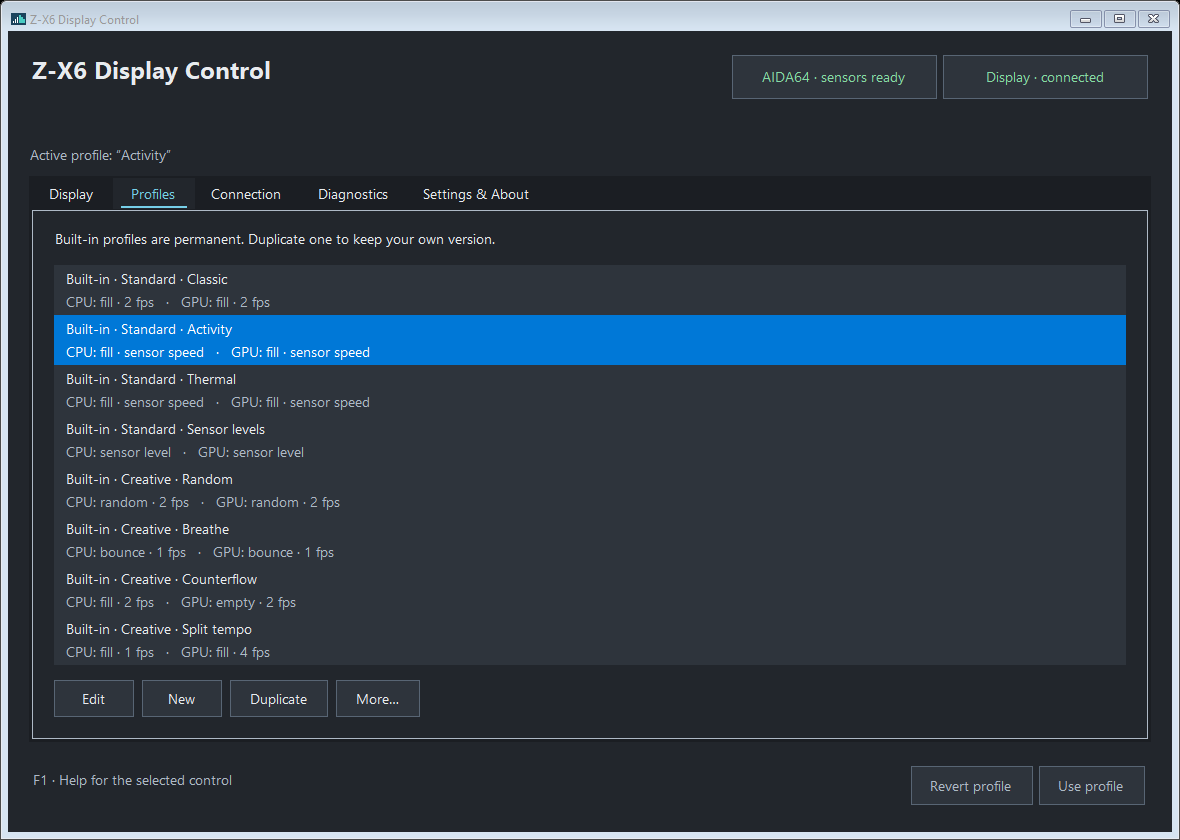
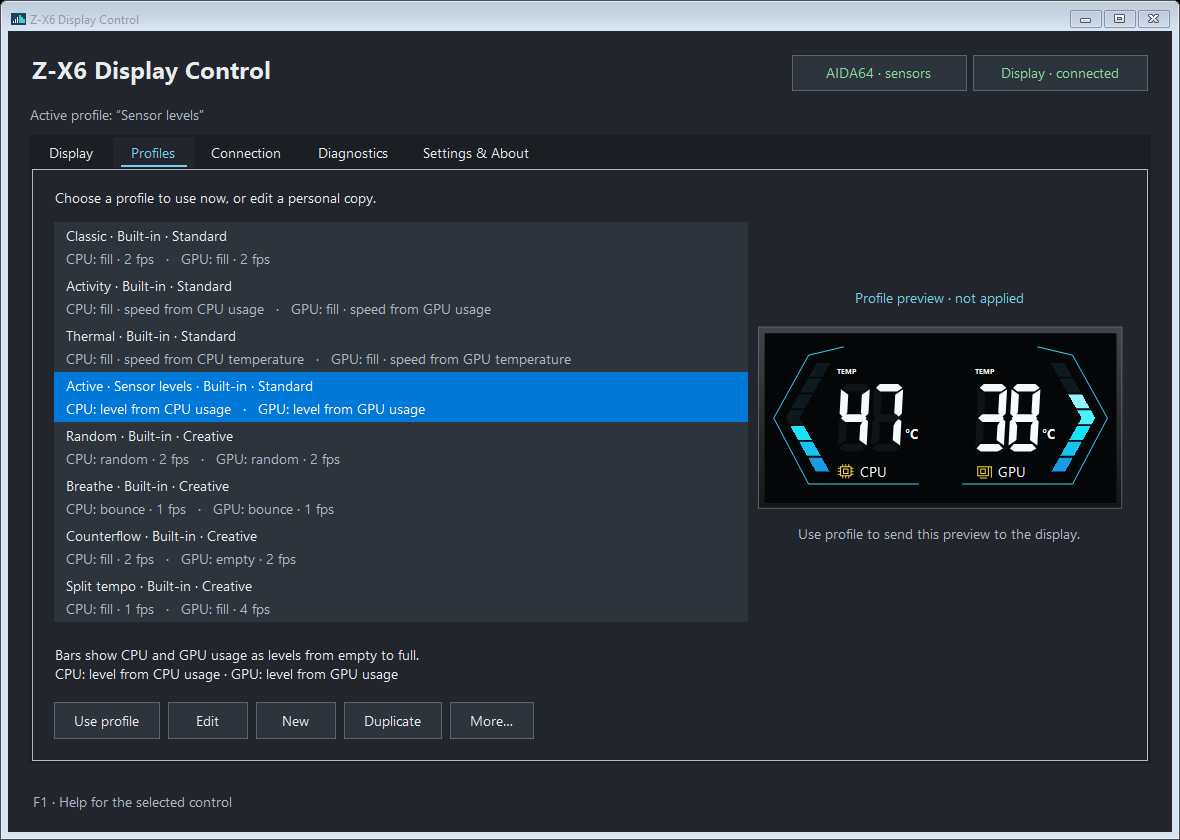
Prepare beta.5 documentation and refresh public app images

diff --git a/README.md b/README.md
@@ -1,4 +1,4 @@
-# 🖥 Z-X6 Display Control
+# Z-X6 Display Control
 
 Choose which sensors and animations your Z-X6 display uses.
 
@@ -8,30 +8,28 @@ It uses sensor readings from AIDA64 to show temperatures and animate the bars.
 Configure the CPU and GPU sides separately, save your choices as profiles and
 keep the display running from the Windows tray.
 
-## 🧩 What you can control
+## What you can control
 
 - **Temperature sources:** choose the sensor shown on each side.
 - **Bar animations:** fill, empty, bounce or random, with fixed speed or speed
   that follows a sensor reading.
 - **Playlists:** rotate through bar effects with a separate duration and speed for each step.
-- **Bar levels:** show a sensor value as a level, or hold a fixed level.
+- **Bar levels:** show a sensor value as a level, or hold a fixed level. Bar response
+  explains the reading, lit segments or speed, smoothing and range.
 - **Profiles:** start from protected built-in presets, save personal copies and import or export them.
 - **Display preview:** see both temperature readouts and animated levels together, with pending edits clearly marked.
 - **Daily operation:** turn the display on or off, use tray controls, choose
-  light, dark or system appearance, and optionally start with Windows.
+  light, dark or system appearance, switch profiles from the tray and optionally
+  start with Windows.
 
 The app reconnects automatically when the USB connection becomes available
 again and resumes updates when valid AIDA64 readings return.
 
-## 📦 Before you start
+## Before you start
 
-**Source version: `0.1.0-beta.5` (unreleased).** The executable is unsigned.
+**Current release: [0.1.0-beta.5](https://github.com/XxYouDeaDPunKxX/zx6-display-control/releases/tag/v0.1.0-beta.5).** The executable is unsigned.
 
-The app uses English for its interface and system-error summaries. Regional
-number and date formats are retained. Windows file pickers may use the Windows
-language when English resources are unavailable. Sensor names, custom profile
-names and original diagnostic details are preserved.
-The latest published release is `0.1.0-beta.2`.
+The interface is in English and uses your regional number and date formats.
 See the [changelog](CHANGELOG.md) for changes and upgrade notes.
 
 You need:
@@ -47,7 +45,7 @@ The app controls the two temperature readouts and their bars. It has no controls
 for RGB lighting, brightness, custom images or firmware updates. Other holder
 models and firmware variants have not been verified.
 
-## 🚀 Get started
+## Get started
 
 1. Download `ZX6DisplayControl.zip` from
    [Releases](https://github.com/XxYouDeaDPunKxX/zx6-display-control/releases)
@@ -73,7 +71,7 @@ Read the [online documentation](https://xxyoudeadpunkxx-zx6-display-control.mint
 for setup and daily operation. The project documentation is also indexed on
 [Context7](https://context7.com/xxyoudeadpunkxx/zx6-display-control).
 
-### 🔄 Updating the app
+### Updating the app
 
 The app checks GitHub at startup, at most once every 24 hours, and
 shows a link when a newer version is available. Published betas are included.
@@ -86,9 +84,9 @@ the EXE and Core DLL together. Profiles remain in your Windows user data folder.
 If the app's folder changes, save preferences again to repair Windows startup
 registration when enabled. The app never downloads or installs an update itself.
 
-## 📸 Screenshots
+## Screenshots
 
-The beta.2 interface, shown with sample readings.
+The beta.5 interface, rendered with sample readings.
 
 **Display:** both readouts and animations beside the CPU/GPU controls.
 
@@ -101,9 +99,9 @@ The beta.2 interface, shown with sample readings.
 ---
 
 <details>
-<summary>⚙ Technical details</summary>
+<summary>Technical details</summary>
 
-### 🏗 Architecture and execution model
+### Architecture and execution model
 
 The application is C# 5 with Windows Forms, targeting .NET Framework 4.7.2.
 `ZX6DisplayControl.exe` is the entry point; `ZX6DisplayControl.Core.dll` contains
@@ -138,7 +136,7 @@ The UI reads the latest published session state rather than performing serial
 I/O itself. File operations run asynchronously, with editing disabled while
 an operation is pending.
 
-### 🌡 AIDA64 export and sensor selection
+### AIDA64 export and sensor selection
 
 The reader checks for the `aida64` process and opens the existing
 `AIDA64_SensorValues` memory map with read-only access. It reads only the sensors
@@ -177,7 +175,7 @@ provide a sensor-production timestamp, so unchanged values are not treated
 as proof that a sensor is stale. Diagnostics retains the last snapshot when
 reads fail and labels it as the last received data.
 
-### 🔌 Device discovery and serial connection
+### Device discovery and serial connection
 
 Discovery queries Windows WMI `Win32_PnPEntity` for COM-port devices and requires
 a healthy device whose instance ID exactly matches:
@@ -207,7 +205,7 @@ initialization. It sends temperature/bar updates only after initialization
 and while the display has valid temperatures and is enabled. The transport
 writes packets; it does not read acknowledgements from the holder.
 
-### 📡 Display packet format
+### Display packet format
 
 [PacketCodec.cs](src/Holder/PacketCodec.cs) defines the packet format implemented
 by this app. Temperature updates are **20 bytes**. Temperatures are truncated
@@ -248,7 +246,7 @@ on every data update. The write counter counts successful serial write calls,
 including control packets; it is not confirmation that the holder acknowledged
 or rendered a packet.
 
-### ⏱ Scheduling, power and recovery
+### Scheduling, power and recovery
 
 Scheduling uses a `Stopwatch`-based monotonic clock.
 
@@ -284,7 +282,7 @@ On Windows suspend the session requests display off and closes the port.
 On resume it clears timing/animation state and starts reading and reconnecting
 again. Cleanup errors remain visible in session status and the event log.
 
-### 🎞 Animation modes, mapping and smoothing
+### Animation modes, mapping and smoothing
 
 CPU and GPU use separate animation engines, settings and random generators.
 Temperature selection does not implicitly select the animation-control sensor,
@@ -295,6 +293,7 @@ except when using the explicit **Follow temperature** preset.
 | Animated bar · speed | Advance Fill, Empty, Bounce or Random at a fixed or sensor-driven speed. |
 | Sensor meter · level | Map the selected sensor to the nearest of eight bar levels. |
 | Fixed level | Hold the chosen level `0–7`. |
+| Playlist | Repeat ordered effects, each with its own duration and speed. |
 
 Playlist repeats 1–16 ordered effects. Each step selects a pattern, duration
 (1–600 seconds) and speed (1–4 fps). Pause freezes both the frame and step timer.
@@ -349,6 +348,10 @@ level uses that level's ordinary rounding boundary; otherwise its threshold
 could fall outside the sensor range. Hysteresis reduces repeated level changes
 when a sensor hovers around a boundary.
 
+**Bar response** shows the controlling sensor reading and the resulting lit
+segments or animation speed. It also explains smoothing, the input range and
+holds near a level boundary. **Preview response** identifies an unapplied draft.
+
 **Pause animation** holds only the bar; temperatures keep updating.
 Changing animation settings resets that engine. With no pending profile edits,
 the display preview uses the worker’s published temperatures and frames. It
@@ -358,7 +361,7 @@ engines and is labelled **Preview · not applied**. Off, disconnected or stopped
 states clear the readouts. The CPU/GPU controls retain ranges and timing when
 changing modes; choosing an animation preset explicitly replaces those values.
 
-### 🗂 Profiles, drafts and persistence
+### Profiles, drafts and persistence
 
 [Profile.cs](src/Settings/Profile.cs) defines a profile as a name plus separate
 `Cpu` and `Gpu` channel settings. Each channel contains `TemperatureId`,
@@ -368,8 +371,7 @@ profile name, display power, startup/tray choices and appearance.
 The editor holds one selected draft. **Use profile** activates an unchanged
 selection; **Save changes** saves and activates a personal profile. Editing a
 built-in offers **Save as new profile**, using an available personal name.
-Switching away from a modified draft asks Save, Discard or Cancel. No hidden
-collection of drafts is saved later. **Revert profile** returns to the saved
+Switching away from a modified draft asks Save, Discard or Cancel. **Revert profile** returns to the saved
 active profile without discarding app preferences. Returning a value to its
 original setting clears its pending state.
 
@@ -430,7 +432,7 @@ settings, then the backup, then defaults; recovery reports a warning and
 retains the original files. Imported and stored JSON documents are limited
 to **1 MiB**.
 
-### 🪟 Tray, startup, appearance and shutdown
+### Tray, startup, appearance and shutdown
 
 The app uses a named mutex scoped to the Windows user SID. A second launch
 signals the existing instance to show its window instead of starting another
@@ -460,7 +462,7 @@ Native file pickers keep Windows styling. The interface scales to the system DPI
 at startup and provides F1/hover help. Moving between monitors with different
 scaling may blur the window; per-monitor DPI changes are not supported.
 
-### 🔄 GitHub release checks
+### GitHub release checks
 
 [UpdateService.cs](src/Updates/UpdateService.cs) reads this repository's public
 GitHub Releases API over HTTPS. No account, token or dedicated update server is
@@ -490,7 +492,7 @@ normal connection information, including the IP address. No sensor readings,
 profiles, diagnostics or logs are uploaded. The browser opens only when the user
 selects **Open release** or the update notice.
 
-### 🩺 Diagnostics and local data
+### Diagnostics and local data
 
 The only app network request is the GitHub release check described above.
 Display control works locally. Diagnostics exposes the exported sensor
@@ -516,15 +518,13 @@ events. It does not include AIDA64's INI/license or the complete sensor catalog.
 Review the report before sharing it: profile names, paths and exception details
 can contain personal information, including the Windows user name.
 
-### 🛠 Build, packaging and source traceability
+### Build, packaging and source traceability
 
 Build requirements are Windows PowerShell 5.1, the .NET Framework C# compiler
 and the .NET Framework 4.7.2 Developer Pack reference assemblies. There are no
 NuGet dependencies or restore step. [Build.ps1](Build.ps1) invokes `csc.exe`
 directly with C# 5, optimization and warnings treated as errors.
-The repository has no automated CI workflow. Hash checks below verify that a
-package matches its local source/build record; they do not promise byte-identical
-rebuilds on another machine.
+Package checks verify that the binaries match the recorded source inputs.
 
 From the source folder:
 
@@ -560,7 +560,7 @@ while the fingerprint checks prevent packaging a stale or modified build.
 
 ---
 
-### 🤝 Contributing
+### Contributing
 
 Contributions are welcome. Use
 [Issues](https://github.com/XxYouDeaDPunKxX/zx6-display-control/issues)
@@ -574,14 +574,10 @@ problem concerns AIDA64 readings, port access, display values or animations.
 For pull requests, describe the change and what you checked. Keep changes
 compatible with the C# 5 / .NET Framework 4.7.2 build.
 
-## 📄 License
+## License
 
 MIT. See [LICENSE](LICENSE).
 
-## 🤖 AI-assisted development
+## AI-assisted development
 
 This project was developed with AI assistance.
-
-The project, documentation, and repository materials were shaped through human-directed work supported by AI tools during drafting, structuring, review, and refinement.
-
-AI assistance does not make the project automatically correct, complete, or suitable for every use case. Read it, test it, and adapt it to your own context.

diff --git a/CHANGELOG.md b/CHANGELOG.md
@@ -1,36 +1,44 @@
 # Changelog
 
-## 0.1.0-beta.5 — Unreleased
+## 0.1.0-beta.5 — 2026-10-07
 
-- Use English UI resources throughout the app without changing regional number
-  input or date formats.
-- Present Windows errors in English with their error codes, including on systems
-  without English message resources. Keep original exceptions in diagnostic logs.
-- Request English from native Windows components within this app; file pickers
-  can still fall back to the language installed in Windows.
+### Added
 
-## 0.1.0-beta.4 — Unreleased
+- Playlists: repeat ordered bar effects with separate durations and speeds for CPU and GPU.
+- Bar response: see the sensor reading, resulting segments or speed, smoothing,
+  input range and any hold near a level boundary. Unapplied drafts are labelled separately.
+- Profile previews and direct activation from Profiles or the tray.
+- Guided sensor setup and a ten-second bar check that restores the active profile.
+- Copy animation between CPU and GPU while retaining the destination sensors and range.
+- Window position, size and maximized state restored across launches.
 
-- Bar response explains the control reading, resulting segments or speed, smoothing,
-  range limits and holds near a level boundary. Draft feedback is marked separately.
-- Clearer Animated bar (speed), Sensor meter (level), Fixed level and Playlist behaviors.
-- Playlists with ordered effects, independent durations and speeds for each side.
-- Profile previews, active markers, sensor-specific descriptions and direct activation
-  from Profiles or the tray, preserving the unsaved-edit checks.
-- Shorter sensor labels with technical IDs in secondary details and relevant readings first.
-- Copy animation between CPU and GPU while retaining destination sensors and ranges.
+### Changed
+
+- Distinct Animated bar (speed), Sensor meter (level), Fixed level and Playlist controls.
+- Shorter sensor labels, relevant readings first and technical IDs in secondary details.
 - Compact header, adjustable preview/editor divider and contextual profile actions.
-- Window position, size and maximized state retained across launches.
-- Guided sensor setup and an optional ten-second bar check that restores the active profile.
-- Startup diagnosis reports forced administrator compatibility without changing it.
+- English interface and system-error summaries, with regional number and date formats retained.
 
-## 0.1.0-beta.3 — Unreleased
+### Fixed
 
-- Sensor-level bars use the nearest segment instead of rounding down. Smoothed
-  full-scale readings can now reach level 7; wide hysteresis settings cannot
-  place the empty/full transition outside the sensor range.
-- The guide explains discrete bar levels and the Windows compatibility setting
-  that can prevent startup when an EXE is forced to run as administrator.
+- Sensor meters use the nearest segment instead of rounding down. Smoothed full-scale
+  readings can reach the full bar; hysteresis cannot make the endpoint unreachable.
+- Independent random sequences in CPU and GPU previews.
+- Activating a saved profile respects Save or Discard when the editor has unsaved changes.
+- Sensor selectors show readable labels, and tray profile submenus follow the selected theme.
+- Connection notices no longer shift the editor while a dropdown is open.
+- Startup diagnosis identifies forced administrator compatibility, which can prevent
+  automatic launch. The app does not change that Windows setting.
+
+### Updating
+
+Exit the running app from its tray menu, extract the entire new ZIP and run the new
+EXE. Keep the EXE and Core DLL together. Settings remain under
+`%LOCALAPPDATA%\ZX6DisplayControl`. If the app folder moved and Start with Windows
+is enabled, save preferences from the new copy to repair startup registration.
+
+Requires one Z-X6, AIDA64 shared memory and .NET Framework 4.7.2 or later.
+The executable is unsigned.
 
 ## 0.1.0-beta.2 — 2026-10-06
 
